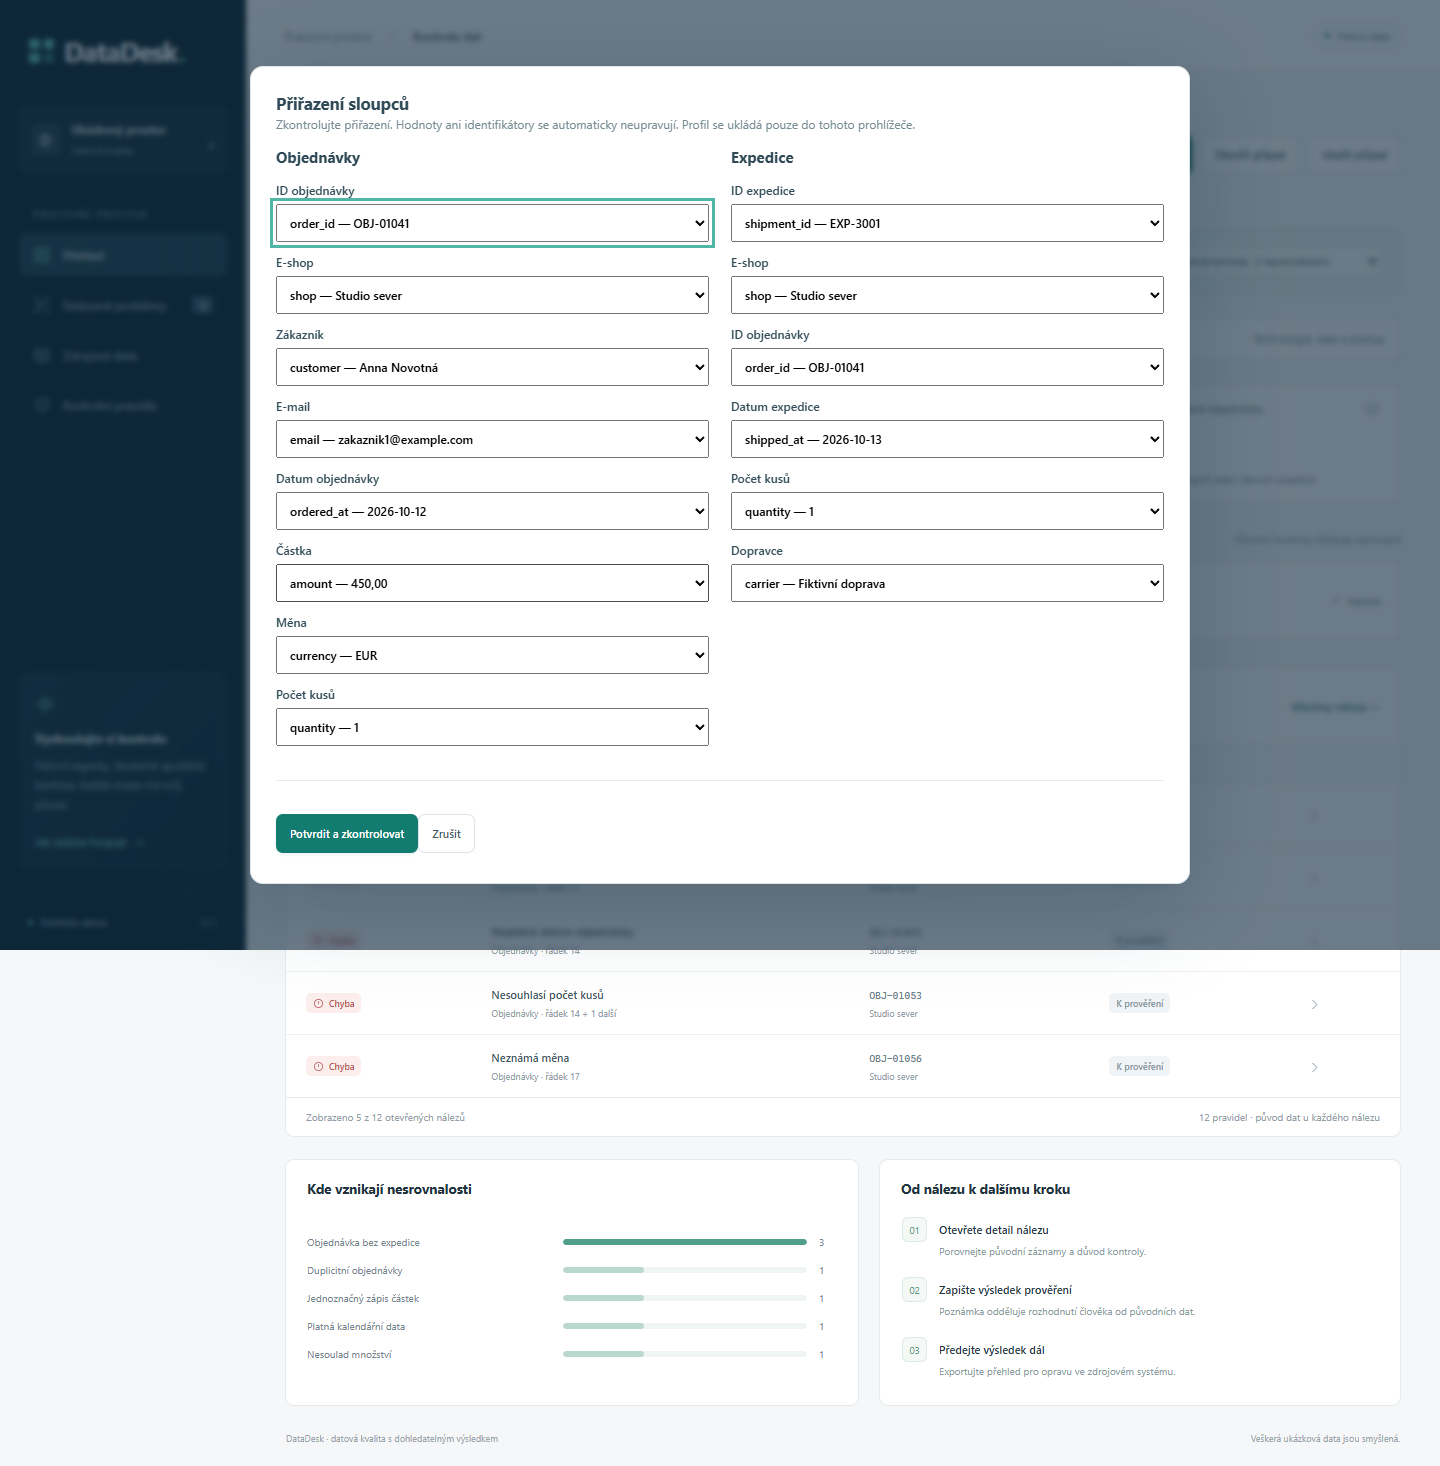
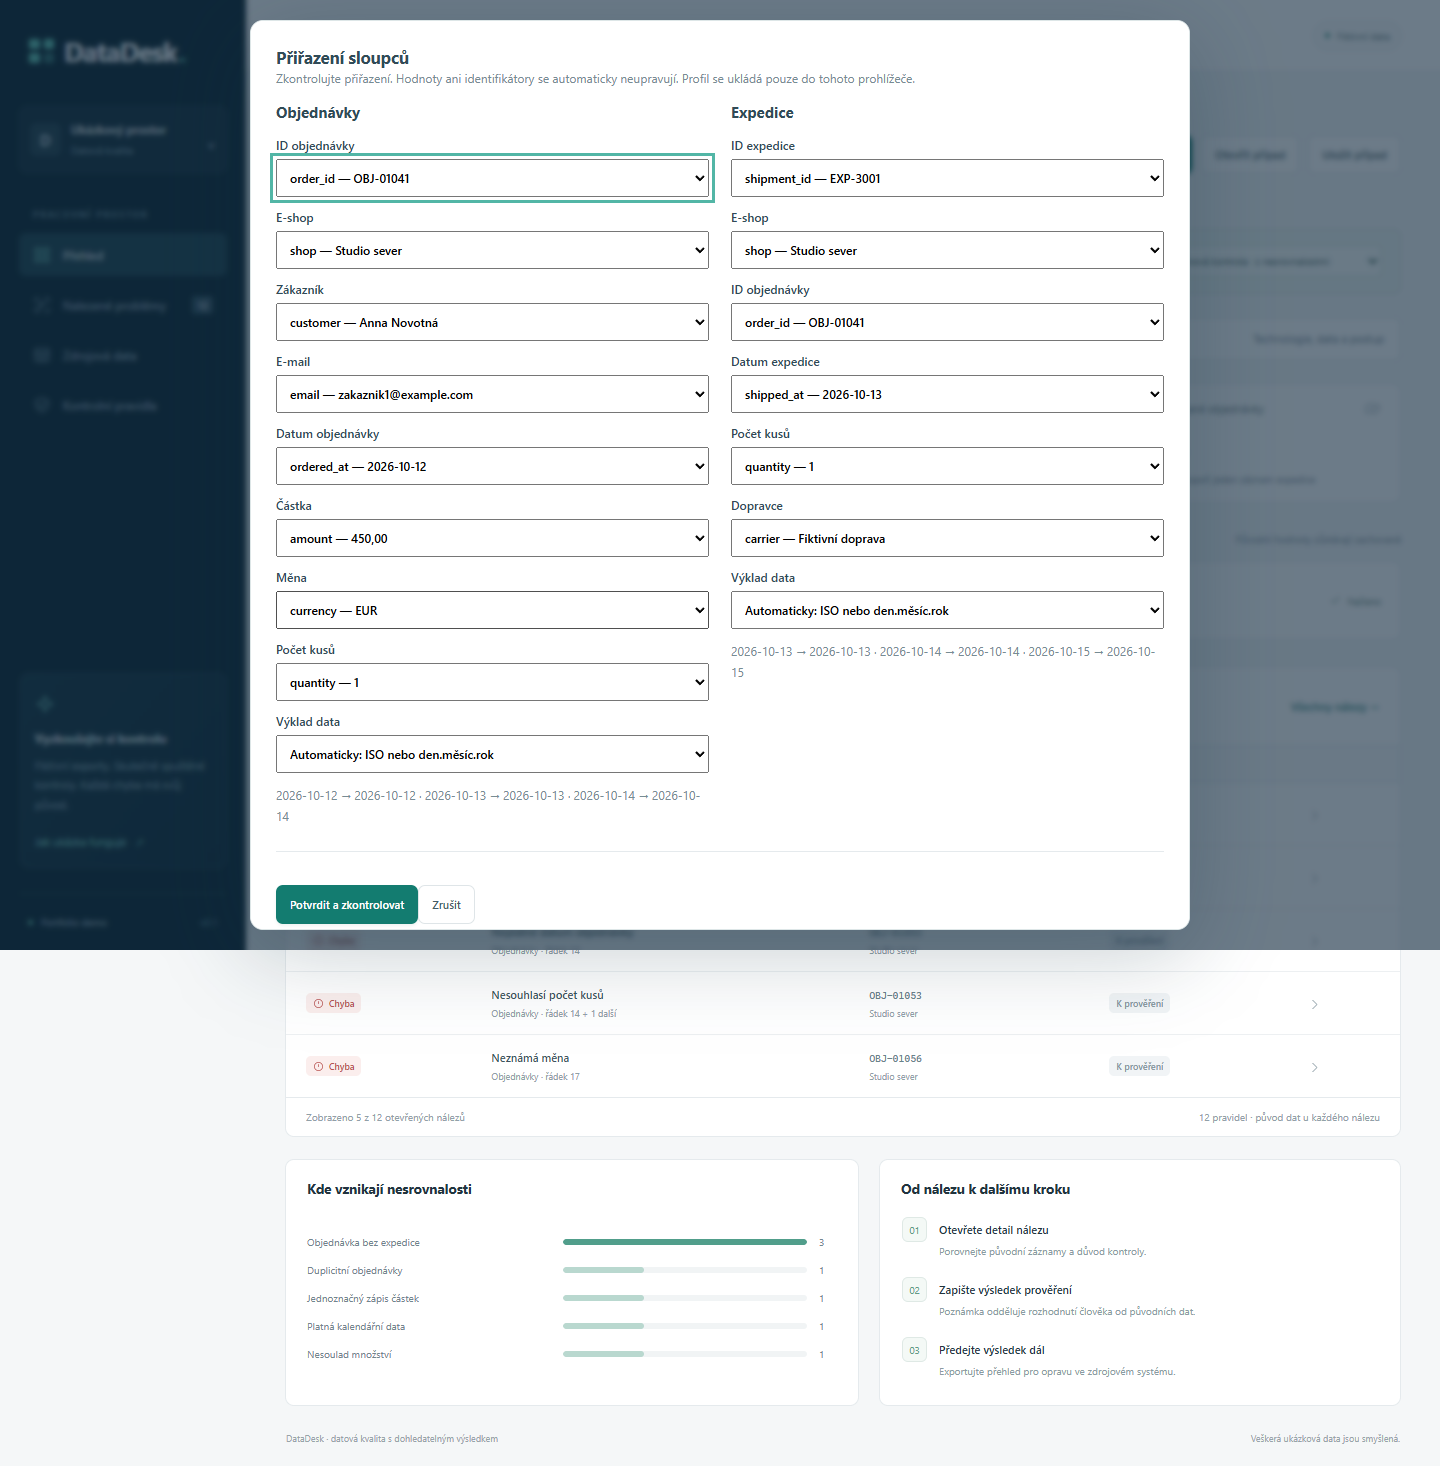
feat: explicit import formats and reproducible SQL analytics

Changed region(s): [[0.1562, 0.0, 0.8438, 0.6446]]

diff --git a/analysis/analyze.py b/analysis/analyze.py
@@ -1,0 +1,74 @@
+"""Verified DataDesk cases -> recomputed Node findings -> transparent SQL reports."""
+import argparse
+import csv
+import hashlib
+import io
+import json
+import os
+import sqlite3
+import subprocess
+from pathlib import Path
+
+ROOT=Path(__file__).resolve().parent
+
+def recompute(file):
+    result=subprocess.run([os.environ.get('DATADESK_NODE','node'),str(ROOT.parent/'scripts/analytics-input.mjs'),str(file)],capture_output=True,text=True,encoding='utf-8',timeout=30)
+    if result.returncode:raise ValueError('Case verification failed: '+result.stderr[:300].strip())
+    return json.loads(result.stdout)
+
+def identity(finding):
+    # Omit physical positions only. Date-format metadata changes interpretation.
+    records=[{'source':r['source'],'raw':{k:v for k,v in r['raw'].items() if k!='__line'}} for r in finding['rows']]
+    canonical=json.dumps({'code':finding['code'],'records':sorted(records,key=lambda r:json.dumps(r,sort_keys=True,ensure_ascii=False))},sort_keys=True,ensure_ascii=False,separators=(',',':'))
+    return hashlib.sha256(canonical.encode()).hexdigest()
+
+def analyze(after,before=None):
+    snapshots={'after':recompute(after)}
+    if before:snapshots['before']=recompute(before)
+    with sqlite3.connect(':memory:') as db:
+        db.row_factory=sqlite3.Row
+        db.executescript('''CREATE TABLE orders(snapshot TEXT,shop TEXT,order_id TEXT,ordered_date TEXT,cents INTEGER,currency TEXT,source_row INTEGER);
+          CREATE TABLE findings(snapshot TEXT,identity TEXT,code TEXT,severity TEXT,reviewed INTEGER,PRIMARY KEY(snapshot,identity));
+          CREATE TABLE finding_refs(snapshot TEXT,identity TEXT,shop TEXT,month TEXT);
+          CREATE INDEX order_key ON orders(snapshot,shop,order_id);
+          CREATE INDEX finding_key ON finding_refs(snapshot,identity);''')
+        for name,data in snapshots.items():
+            month_index={}
+            for row in data['orders']:
+                db.execute('INSERT INTO orders VALUES(?,?,?,?,?,?,?)',(name,row['shop'],row['id'],row['date'],row['cents'],row['currency'],row['sourceRow']))
+                month_index.setdefault((row['shop'],row['id']),set()).add(row['date'][:7] if row['date'] else None)
+            occurrences={}
+            for finding in data['findings']:
+                base=identity(finding);occurrences[base]=occurrences.get(base,0)+1;key=base+'-'+str(occurrences[base])
+                db.execute('INSERT OR IGNORE INTO findings VALUES(?,?,?,?,?)',(name,key,finding['code'],finding['severity'],finding['reviewed']))
+                for ref in finding['rows']:
+                    # Ambiguous dates must not be silently attributed to one month.
+                    months=month_index.get((ref['shop'],str(ref['raw'].get('order_id','')).strip()),set())
+                    month=next(iter(months)) if len(months)==1 else None
+                    db.execute('INSERT INTO finding_refs VALUES(?,?,?,?)',(name,key,ref['shop'],month))
+        result={name:[dict(row) for row in db.execute((ROOT/(name+'.sql')).read_text(encoding='utf-8'))] for name in ['monthly','queue']+(['transitions'] if before else [])}
+        result['fingerprints']={name:data['fingerprint'] for name,data in snapshots.items()}
+        return result
+
+def csv_text(rows,columns):
+    output=io.StringIO(newline='');writer=csv.writer(output,delimiter=';');writer.writerow(columns)
+    for row in rows:
+        values=[]
+        for col in columns:
+            value=row[col]
+            if isinstance(value,str) and value.lstrip().startswith(('=','+','-','@')):value="'"+value
+            values.append(value)
+        writer.writerow(values)
+    return output.getvalue()
+
+def main():
+    parser=argparse.ArgumentParser(description=__doc__);parser.add_argument('after',type=Path);parser.add_argument('--before',type=Path);parser.add_argument('--output-dir',type=Path,default=Path('analytics-output'));args=parser.parse_args()
+    report=analyze(args.after,args.before);args.output_dir.mkdir(parents=True,exist_ok=True)
+    columns={'monthly':['snapshot','shop','month','currency','unique_orders','amount_minor'],'queue':['snapshot','shop','month','severity','code','open_findings'],'transitions':['change','identity','code','severity','reviewed']}
+    for name,fields in columns.items():
+        if name in report:
+            with (args.output_dir/(name+'.csv')).open('w',encoding='utf-8-sig',newline='') as stream:stream.write(csv_text(report[name],fields))
+    (args.output_dir/'report.json').write_text(json.dumps(report,ensure_ascii=False,indent=2)+'\n',encoding='utf-8')
+    print('SQL report regenerated: '+str(args.output_dir))
+
+if __name__=='__main__':main()

diff --git a/analysis/test_analyze.py b/analysis/test_analyze.py
@@ -1,0 +1,44 @@
+import unittest,tempfile,json,hashlib,subprocess,sys
+from pathlib import Path
+from analyze import analyze,csv_text
+
+def make_case(path,orders,shipments,reviews=None):
+    source={'orders':orders,'shipments':shipments}
+    fingerprint=hashlib.sha256(json.dumps(source,ensure_ascii=False,separators=(',',':')).encode()).hexdigest()
+    payload={'format':'datadesk-case','version':1,'engineVersion':'0.1.0','names':['a.csv','b.csv'],**source,'fingerprint':fingerprint,'reviews':reviews or {},'history':[]}
+    path.write_text(json.dumps(payload,ensure_ascii=False),encoding='utf-8')
+
+def order(id,amount='100',currency='CZK',date='2026-04-03'):
+    return dict(order_id=id,shop='A',customer='Fiktivní',email='a@example.com',ordered_at=date,amount=amount,currency=currency,quantity='1')
+def shipment(id):return dict(shipment_id='S'+id,shop='A',order_id=id,shipped_at='2026-04-04',quantity='1',carrier='Demo')
+
+class AnalysisTests(unittest.TestCase):
+    def test_monthly_excludes_duplicates_and_invalid_amounts_without_mixing_currencies(self):
+        with tempfile.TemporaryDirectory() as folder:
+            source=Path(folder)/'case.json'
+            rows=[order('1'),order('2','10','EUR'),order('dup'),order('dup'),order('bad','bad'),order('date',date='bad')]
+            make_case(source,rows,[shipment('1')]);result=analyze(source)
+            self.assertEqual(result['monthly'],[{'snapshot':'after','shop':'A','month':'2026-04','currency':'CZK','unique_orders':1,'amount_minor':10000},{'snapshot':'after','shop':'A','month':'2026-04','currency':'EUR','unique_orders':1,'amount_minor':1000}])
+            self.assertTrue(any(row['month']=='Unknown' for row in result['queue']))
+    def test_reordering_source_rows_does_not_invent_new_or_resolved_findings(self):
+        with tempfile.TemporaryDirectory() as folder:
+            before,after=[Path(folder)/name for name in ['before.json','after.json']]
+            make_case(before,[order('1'),order('2')],[shipment('1')]);make_case(after,[order('2'),order('1')],[shipment('1')])
+            self.assertEqual([row['change'] for row in analyze(after,before)['transitions']],['unchanged'])
+    def test_resolved_finding_is_not_confused_with_reviewed_finding(self):
+        with tempfile.TemporaryDirectory() as folder:
+            before,after=[Path(folder)/name for name in ['before.json','after.json']]
+            rows=[order('1'),order('2')];make_case(before,rows,[shipment('1')]);make_case(after,rows,[shipment('1'),shipment('2')])
+            self.assertEqual([row['change'] for row in analyze(after,before)['transitions']],['resolved'])
+    def test_invalid_fingerprint_is_rejected_and_cli_writes_real_reports(self):
+        with tempfile.TemporaryDirectory() as folder:
+            source=Path(folder)/'case.json';output=Path(folder)/'out';make_case(source,[order('1')],[shipment('1')])
+            subprocess.run([sys.executable,str(Path(__file__).with_name('analyze.py')),str(source),'--output-dir',str(output)],check=True,capture_output=True)
+            self.assertTrue((output/'monthly.csv').read_text(encoding='utf-8-sig').startswith('snapshot;shop;month;currency;'))
+            payload=json.loads(source.read_text(encoding='utf-8'));payload['orders'][0]['amount']='200';source.write_text(json.dumps(payload),encoding='utf-8')
+            with self.assertRaises(ValueError):analyze(source)
+    def test_spreadsheet_safe_shop_and_exact_date_interpretation(self):
+        self.assertIn("'=bad",csv_text([{'shop':'=bad'}],['shop']))
+        with tempfile.TemporaryDirectory() as folder:
+            source=Path(folder)/'case.json';row=order('1',date='03/04/2026');row['__dateFormat']='dmy-slash';make_case(source,[row],[shipment('1')])
+            self.assertEqual(analyze(source)['monthly'][0]['month'],'2026-04')

diff --git a/analysis/ANALYTICS.md b/analysis/ANALYTICS.md
@@ -1,0 +1,11 @@
+# Další SQL analýzy
+
+`python analysis/analyze.py after.json --before before.json --output-dir analytics-output`
+
+Vyžaduje Python 3.13 a Node.js 24 (`DATADESK_NODE` může zvolit spustitelný soubor). Oba vstupy jsou uložené DataDesk případy, ne volně upravitelné reporty. Node ověří otisk a znovu spustí stejný engine jako UI. Python vytváří paměťovou SQLite databázi s parametrizovanými vstupy a provede samostatné čitelné SQL soubory. Původní `report.py`/`coverage.sql` zůstává nezávislou ukázkou pouze pro Python.
+
+- `monthly.sql`: jednoznačné objednávky podle obchodu, normalizovaného měsíce a měny. Částky jsou celé menší jednotky. Duplicitní klíče, neplatné datum/částka a neznámá měna se vyloučí; nejde o účetní výkaz.
+- `queue.sql`: neprověřené nálezy podle obchodu a období. Jeden nález se počítá jednou uvnitř skupiny, ale může zasahovat více skupin. Součet skupin není globální počet nálezů. Neurčitelné období je `Unknown`.
+- `transitions.sql`: nové, zmizelé, nezměněné nálezy a změny prověření mezi dvěma případy. Identita používá pravidlo a původní obchodní záznamy bez fyzického čísla řádku. Opakované shodné nálezy zachovají násobnost. Pouhé přeuspořádání zdroje tak nevyrábí vyřešené chyby. Prověření není oprava dat.
+
+CSV jsou v UTF-8, chrání textové buňky proti vzorcům. `report.json` uvádí otisky obou ověřených vstupů. Datumové formáty se přebírají z explicitních metadat případu; původní hodnoty se nemění. Výsledky jsou snímky, obnovují se opětovným spuštěním CLI. Zdrojové datum neprokazuje včasnost doručení.

diff --git a/docs/PROJECT.md b/docs/PROJECT.md
@@ -1,3 +1,9 @@
+## DD-1/2 – 10. 11. 2026
+
+Hotovo: ruční oddělovač CSV (včetně svislé čáry), potvrzený výklad datumu s náhledem a profily, původní hodnoty i metadata v případu/otisku. Excel report má původní datum, použitý formát a normalizovaný den. Automatická volba nepřijímá nejednoznačná lomítka. Nové SQL analýzy: měsíční částky po měnách, otevřené nálezy podle obchodu/období a změny mezi dvěma ověřenými případy. Viz [analysis/ANALYTICS.md](../analysis/ANALYTICS.md).
+
+Ověřeno 45 Node + 9 Python testy. Browser QA XLSX a nový CSV/formátový průchod prošly: volba svislé čáry, výklad 03/04/2026 jako 3. dubna, zachovaný originál, metadata v JSON, uložené profily, mobil a žádné JS chyby. SQL testy kontrolují měny, duplicity, chybné částky/datumy, pouhé přeuspořádání řádků, zánik nálezu, otisk a skutečný CLI export. Ostatní starší záznamy níže jsou historické.
+
 # DD-3, DD-5, DD-6, DD-7 – XLSX a report
 
 Hotovo místně: XLSX import ve workeru, výběr listu/hlavičky, omezení skutečné dekomprese, zachování formátovaných ID, odmítnutí vzorců a chybných buněk, Excel export s pěti listy a vzorci, opakovatelné CLI obnovení a fyzické řádky zdroje.

diff --git a/docs/STATUS.md b/docs/STATUS.md
@@ -1,3 +1,9 @@
+## DD-1/2 – 10. 11. 2026
+
+Hotovo: ruční oddělovač CSV (včetně svislé čáry), potvrzený výklad datumu s náhledem a profily, původní hodnoty i metadata v případu/otisku. Excel report má původní datum, použitý formát a normalizovaný den. Automatická volba nepřijímá nejednoznačná lomítka. Nové SQL analýzy: měsíční částky po měnách, otevřené nálezy podle obchodu/období a změny mezi dvěma ověřenými případy. Viz [analysis/ANALYTICS.md](../analysis/ANALYTICS.md).
+
+Ověřeno 45 Node + 9 Python testy. Browser QA XLSX a nový CSV/formátový průchod prošly: volba svislé čáry, výklad 03/04/2026 jako 3. dubna, zachovaný originál, metadata v JSON, uložené profily, mobil a žádné JS chyby. SQL testy kontrolují měny, duplicity, chybné částky/datumy, pouhé přeuspořádání řádků, zánik nálezu, otisk a skutečný CLI export. Ostatní starší záznamy níže jsou historické.
+
 # DD-3, DD-5, DD-6, DD-7 – XLSX a report
 
 Hotovo místně: XLSX import ve workeru, výběr listu/hlavičky, omezení skutečné dekomprese, zachování formátovaných ID, odmítnutí vzorců a chybných buněk, Excel export s pěti listy a vzorci, opakovatelné CLI obnovení a fyzické řádky zdroje.

diff --git a/docs/QA.md b/docs/QA.md
@@ -1,3 +1,9 @@
+## DD-1/2 – 10. 11. 2026
+
+Hotovo: ruční oddělovač CSV (včetně svislé čáry), potvrzený výklad datumu s náhledem a profily, původní hodnoty i metadata v případu/otisku. Excel report má původní datum, použitý formát a normalizovaný den. Automatická volba nepřijímá nejednoznačná lomítka. Nové SQL analýzy: měsíční částky po měnách, otevřené nálezy podle obchodu/období a změny mezi dvěma ověřenými případy. Viz [analysis/ANALYTICS.md](../analysis/ANALYTICS.md).
+
+Ověřeno 45 Node + 9 Python testy. Browser QA XLSX a nový CSV/formátový průchod prošly: volba svislé čáry, výklad 03/04/2026 jako 3. dubna, zachovaný originál, metadata v JSON, uložené profily, mobil a žádné JS chyby. SQL testy kontrolují měny, duplicity, chybné částky/datumy, pouhé přeuspořádání řádků, zánik nálezu, otisk a skutečný CLI export. Ostatní starší záznamy níže jsou historické.
+
 ## Ověřený vzdálený běh
 
 GitHub Actions úspěšně ověřily kód `eae6629`: [výsledek kontroly](https://github.com/OmegaCatt/datadesk/actions/runs/42679919818). Výsledek se vztahuje k uvedenému commitu; změny pouze dokumentace nepřidávají nové funkce.

diff --git a/README.md b/README.md
@@ -1,5 +1,9 @@
 # DataDesk
 
+Nově: explicitní oddělovač CSV a formát data s náhledem, uložené profily a další SQL analýzy. [Postup SQL](analysis/ANALYTICS.md). Datumový výklad je uložený vedle originálu; původní hodnota se nepřepisuje.
+
+English: explicit CSV/date parsing profiles with preview and original values retained, plus reproducible monthly, open-findings and cross-run SQL reports.
+
 ## Aktualizace 9. 11. 2026: Mapování a uložené případy
 
 CSV import nyní nabízí potvrzení mapování všech sloupců s náhledem hodnot a místním profilem. Případ lze uložit včetně vstupů a poznámek; při otevření se ověřuje SHA-256 otisk a nálezy se znovu vypočítají. Otisk není podpis ani doklad autenticity. Importované případy se automaticky neukládají do prohlížeče. Samostatný Python/SQLite report a postup obnovy v Excelu jsou v [analysis/README.md](analysis/README.md). XLSX import a přepočítávaný Excel report jsou nyní implementované. Report se obnovuje opětovným exportem z aktuálního případu nebo CLI; nejde o Power Query ani Power BI.

diff --git a/docs/DECISIONS.md b/docs/DECISIONS.md
@@ -32,3 +32,6 @@ Uložený případ obsahuje kanonicky namapované vstupy a poznámky. Import nik
 ## DD-3 až DD-7
 
 XLSX zpracovává vendored SheetJS ve workeru. ZIP guard před parserem počítá skutečné rozbalené bajty; nepovoluje libovolné externí konektory ani makra. Formátované hodnoty zůstávají textem, vzorce se neinterpretují. Report se obnovuje regenerováním, nikoli skrytým Power Query. Metadata řádku zdroje se ověřují. Viz docs/QA.md.
+
+## DD-1/2 dokončení
+Výklad datumu se ukládá do __dateFormat, patří do otisku a nemění originál. SQL analýzy přebírají znovu vypočtené nálezy z Node enginu; Python je nepřepisuje. Nálezy pro porovnání běhů mají obchodní otisk bez fyzických řádků a zachovávají násobnost.
